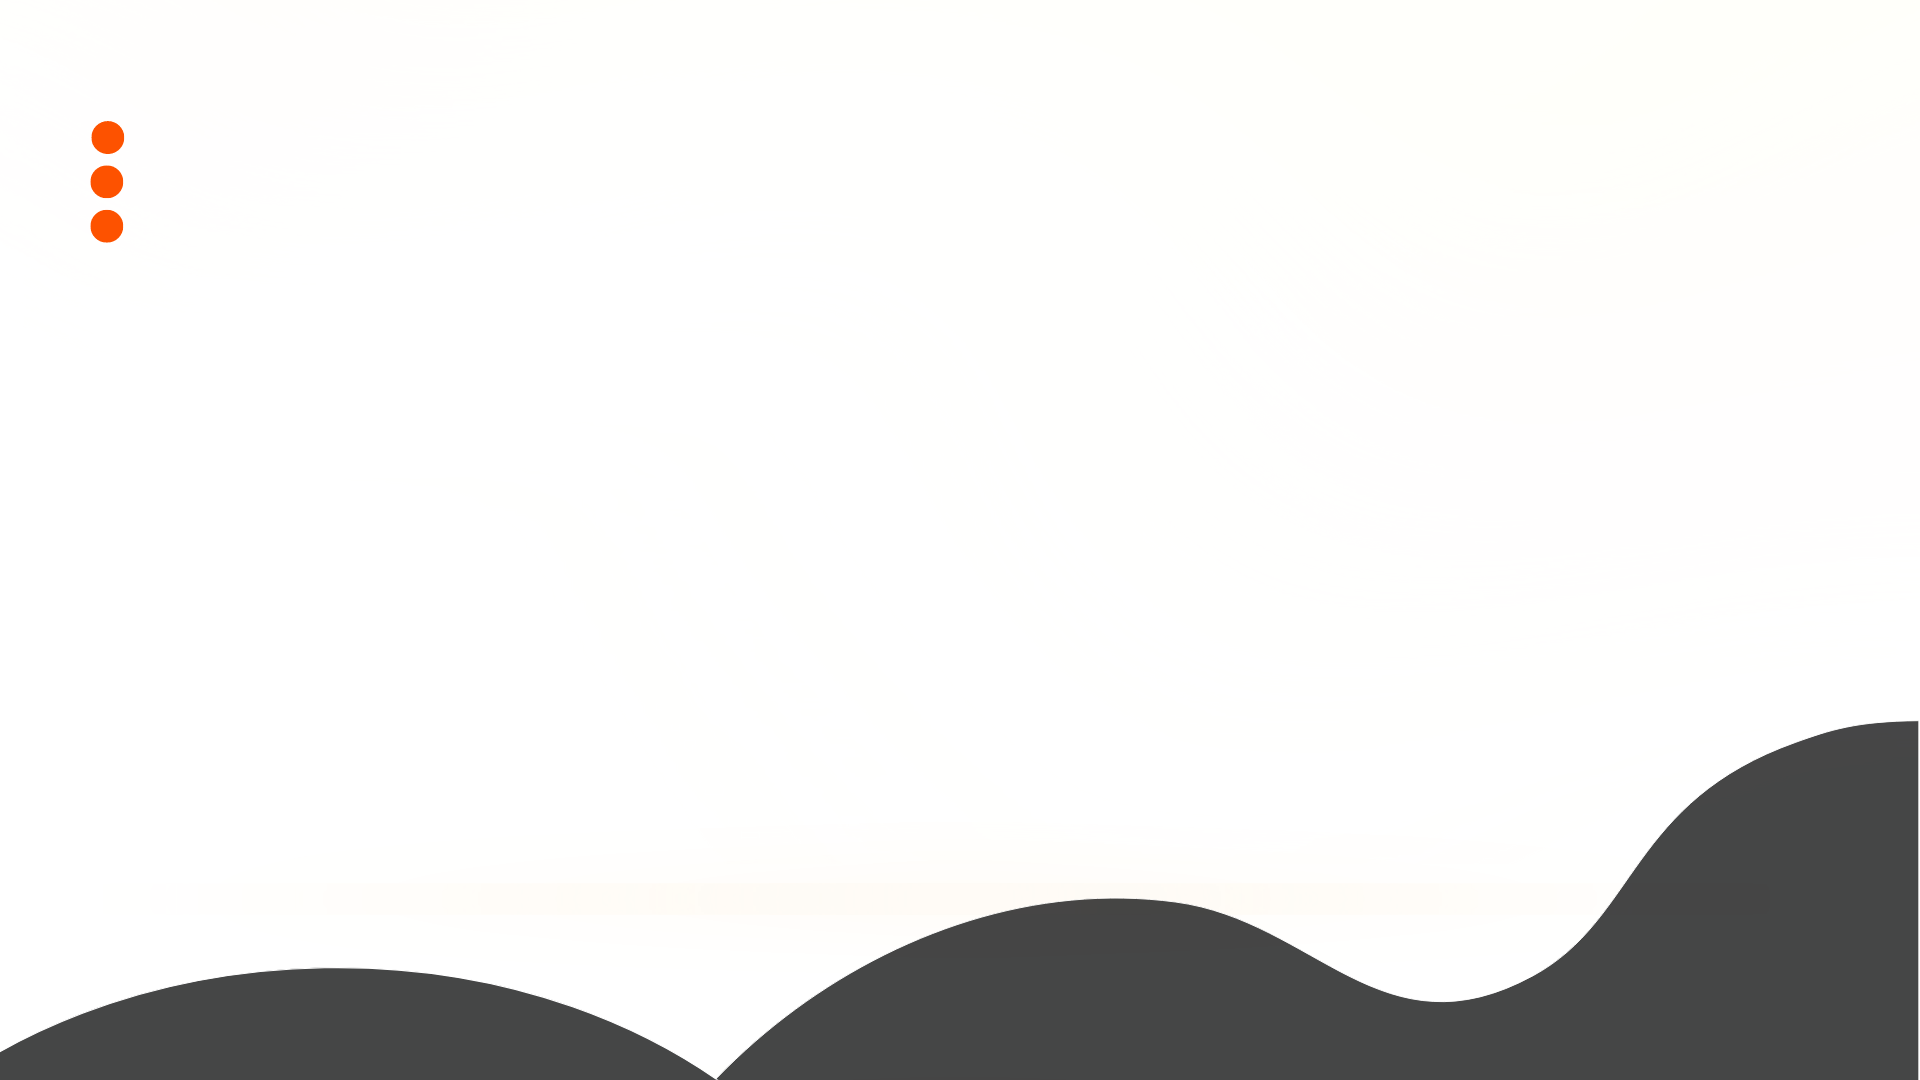
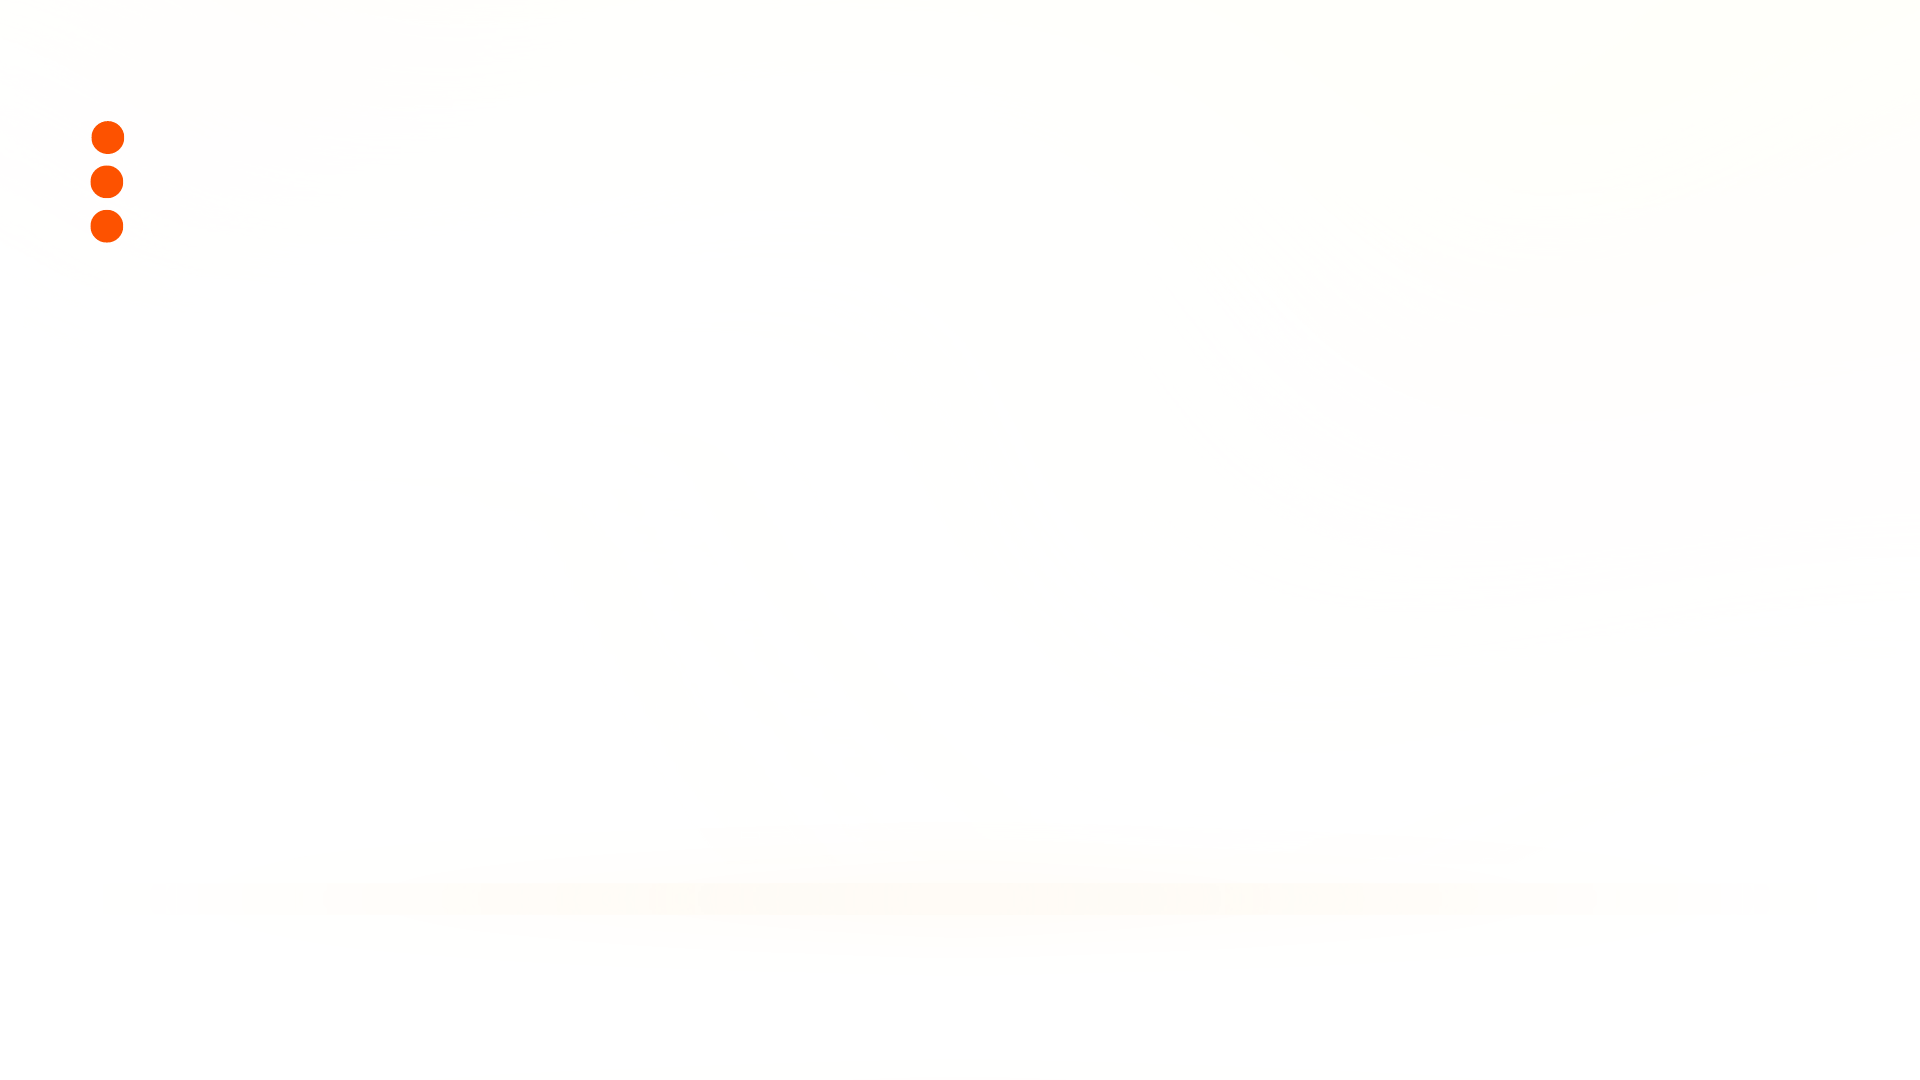
update styles

Changed region(s): [[0.0, 0.6417, 1.0, 1.0]]

diff --git a/components/Skills/Skills.module.css b/components/Skills/Skills.module.css
@@ -9,9 +9,9 @@
      color: var(--brancoTexto);
      
      background-image: url('../../public/assets/images/bg-transparent-3.png');
-     background: linear-gradient(var(--preto), #141414);
      background-repeat: no-repeat;
-     background-size: 100%;
+     background-size: 100% 100%;
+     background: linear-gradient(#050605, #020506) !important;
  }
 
 

diff --git a/components/Projects/Projects.module.css b/components/Projects/Projects.module.css
@@ -5,7 +5,10 @@
     align-items: flex-start;
     gap: 80px;
 
-    background: linear-gradient(#141414, var(--preto));
+    background: var(--preto);
+    background-image: url('../../public/assets/images/bg-transparent-3.png');
+    background-repeat: no-repeat;
+    background-size: 100%;
 }
 
 .projects__descricao {

diff --git a/components/HeaderCTA/HeaderCTA.module.css b/components/HeaderCTA/HeaderCTA.module.css
@@ -5,7 +5,7 @@
     flex-direction: column;
     align-items: flex-start;
     gap: 32px;
-    background: var(--dark); 
+    background: linear-gradient(to right, var(--preto), var(--dark)) ; 
 }
 
 .cta__text {
